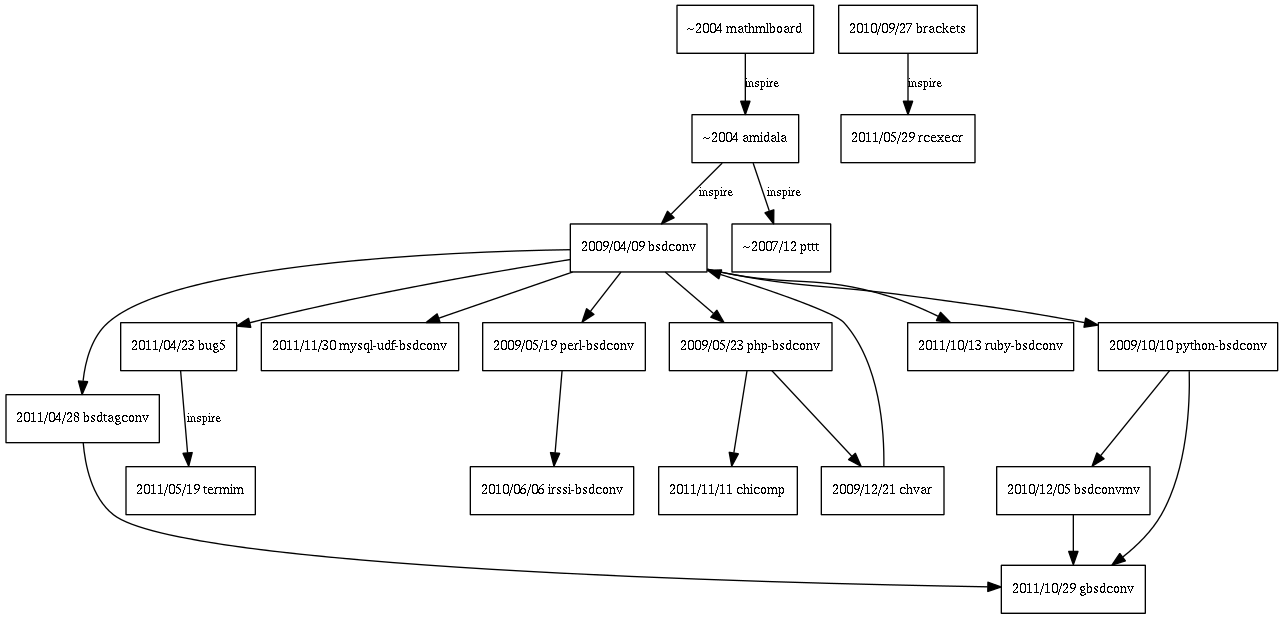
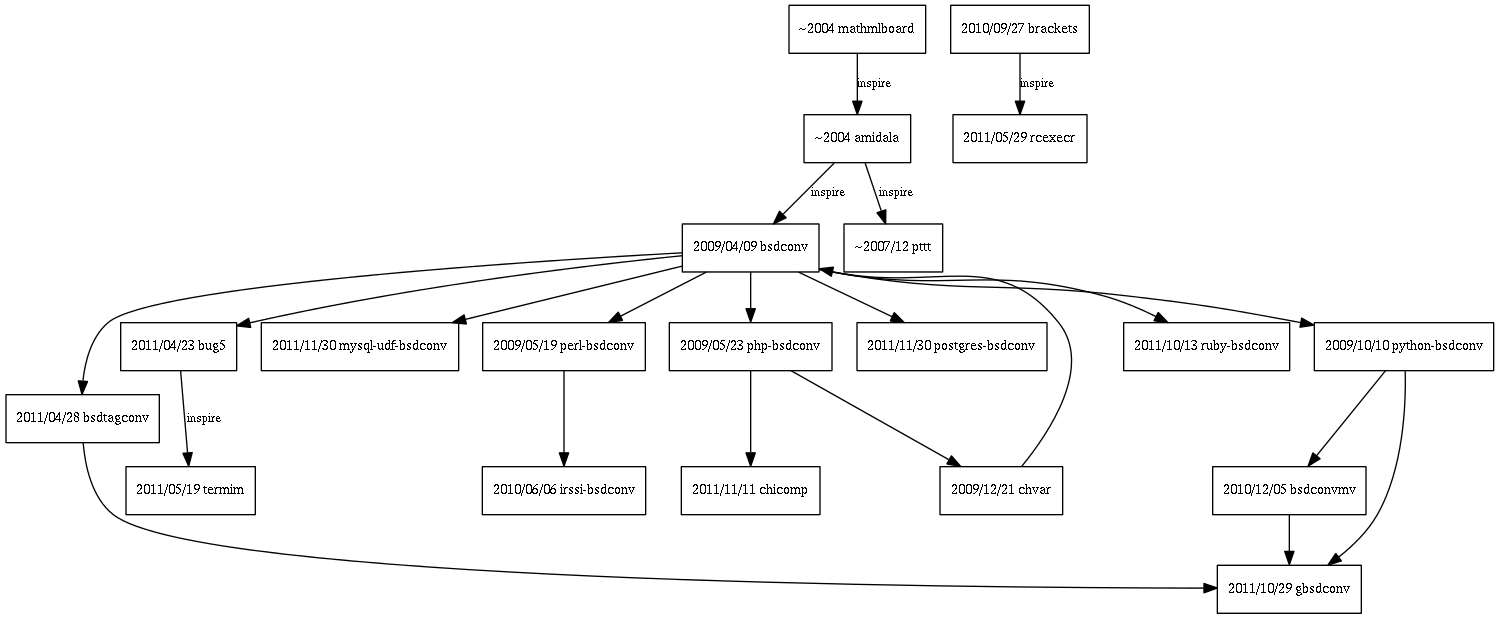
add postgres-bsdconv

diff --git a/index.html b/index.html
@@ -33,6 +33,7 @@ p{
  2011/10/29	gbsdconv
  2011/11/11	chicomp
  2011/11/30	mysql-udf-bsdconv
+ 2011/11/30	postgres-bsdconv
 </p>
 </body>
 </html>
